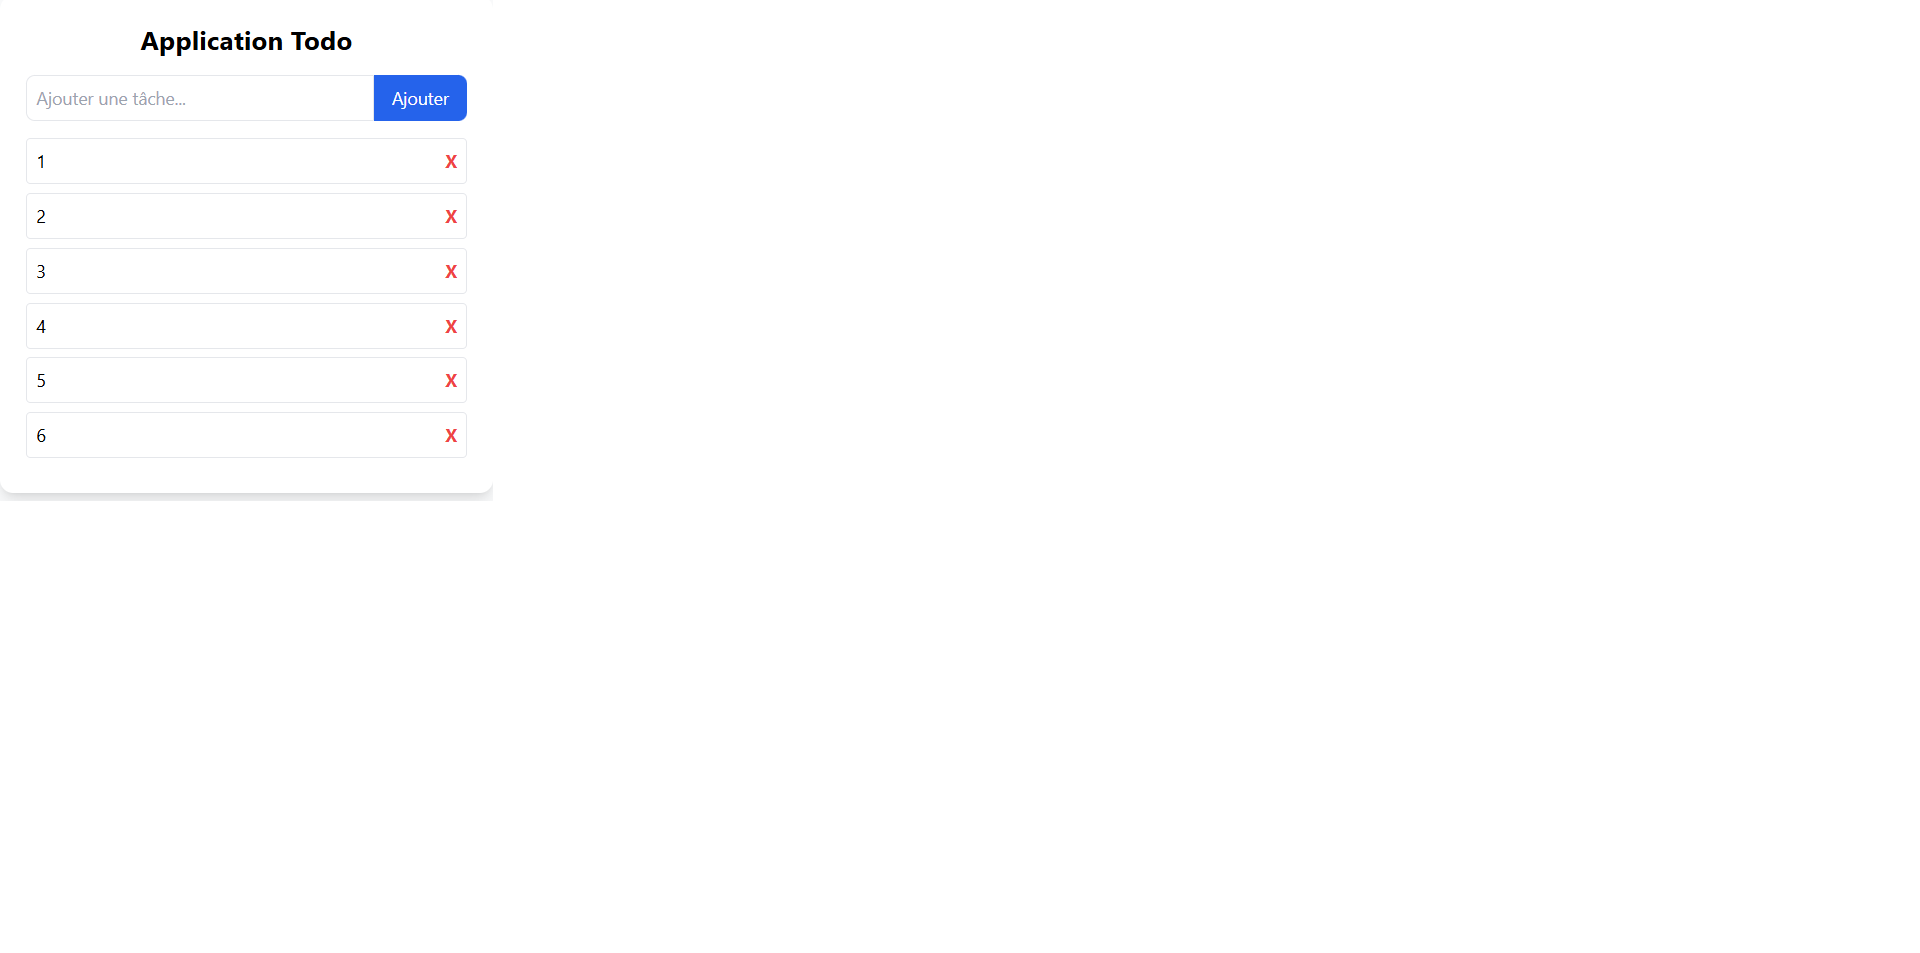
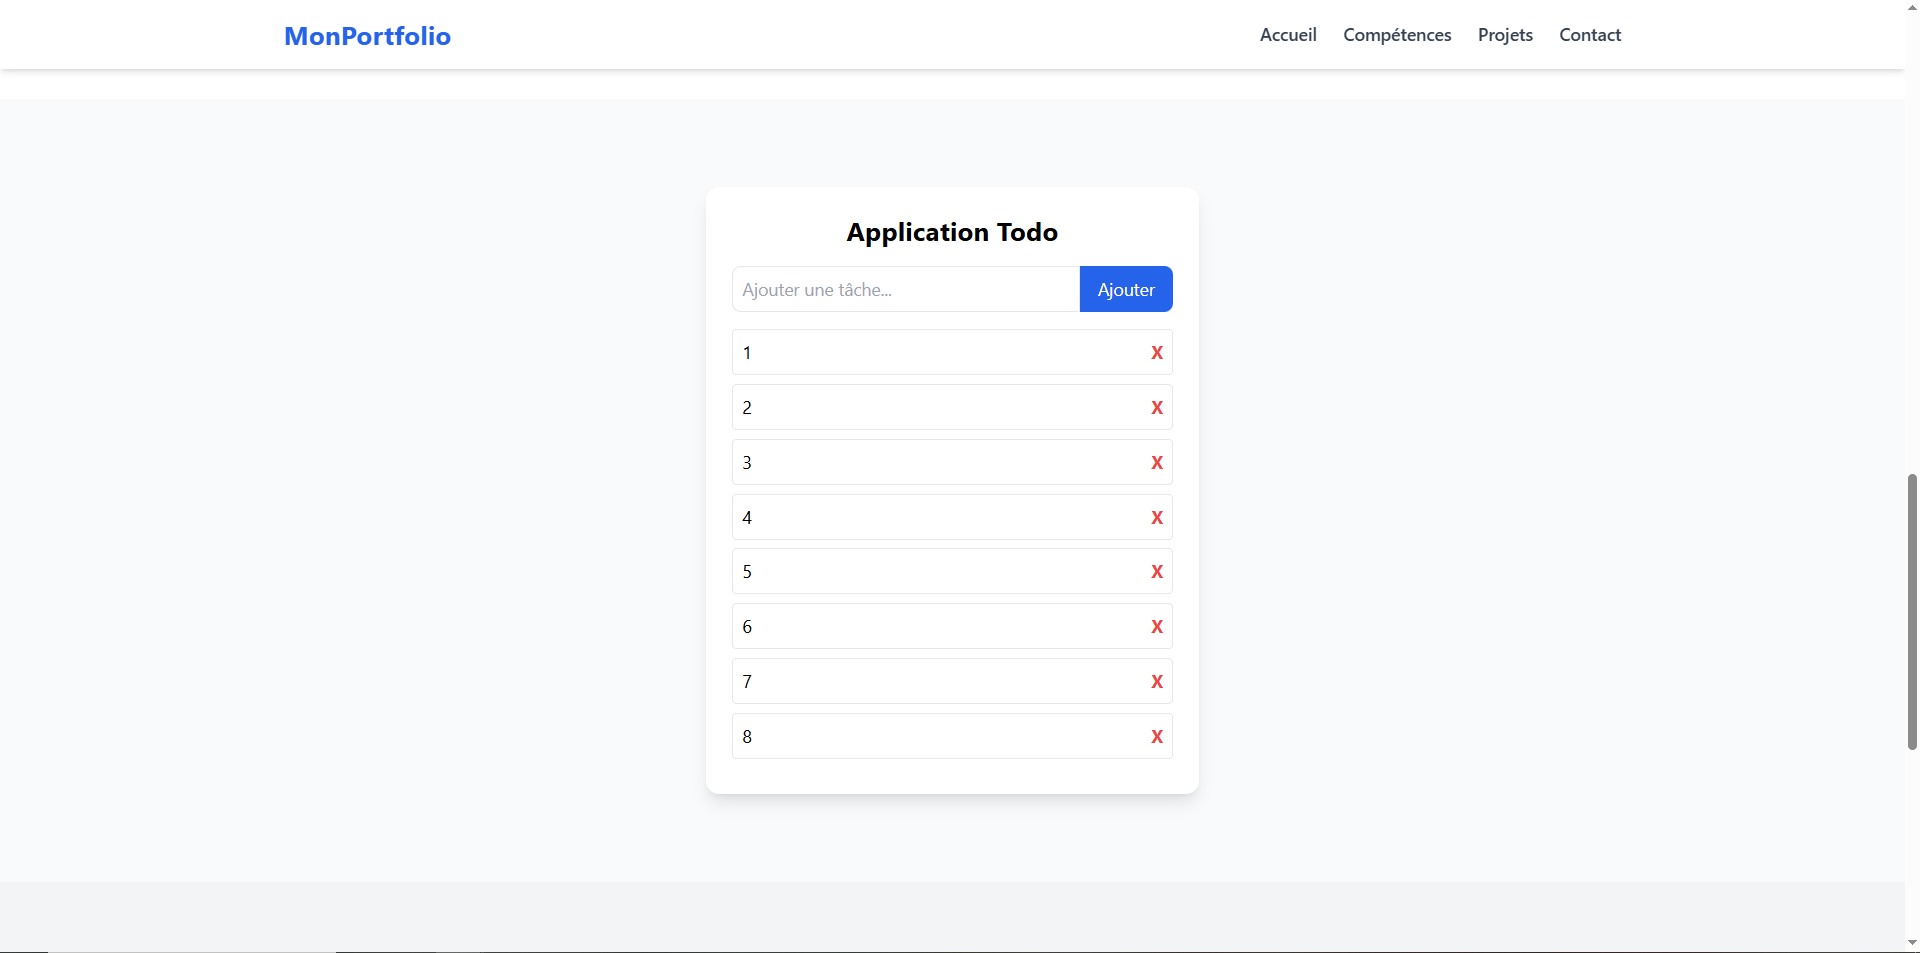
TodoPage and rework

diff --git a/src/App.js b/src/App.js
@@ -1,50 +1,45 @@
 import React from "react";
+import { BrowserRouter as Router, Routes, Route } from "react-router-dom";
 import Header from "./components/Header";
-import Hero from "./components/Hero";
-import Skills from "./components/Skills";
-import Projects from "./components/Projects";
-import Contact from "./components/Contact";
-import Footer from "./components/Footer";
-import Todo from "./components/Todo";
 
+import AppPortfolio from "./AppPortfolio"; // on va créer ça pour ton portfolio actuel
+import TodoPage from "./components/TodoPage";
 
 function App() {
   return (
-    <div className="font-sans">
-      <Header />
-      <Hero />
-      <Skills />
-      <Projects />
-      <Todo/>
-      <Contact />
-      <Footer />
-    </div>
+    <Router>
+      <Header/>
+      <Routes>
+        <Route path="/" element={<AppPortfolio />} />
+        <Route path="/todo" element={<TodoPage />} />
+      </Routes>
+    </Router>
   );
 }
 
 export default App;
 
 
-// import logo from './logo.svg';
-// import './App.css';
+// import React from "react";
+// import Header from "./components/Header";
+// import Hero from "./components/Hero";
+// import Skills from "./components/Skills";
+// import Projects from "./components/Projects";
+// import Contact from "./components/Contact";
+// import Footer from "./components/Footer";
+// import Todo from "./components/Todo";
+
 
 // function App() {
 //   return (
-//     <div className="App">
-//       <header className="App-header">
-//         <img src={logo} className="App-logo" alt="logo" />
-//         <p>
-//           Edit <code>src/App.js</code> and save to reload.
-//         </p>
-//         <a
-//           className="App-link"
-//           href="https://reactjs.org"
-//           target="_blank"
-//           rel="noopener noreferrer"
-//         >
-//           Learn React
-//         </a>
-//       </header>
+//     <div className="font-sans">
+//       <Header />
+//       <Hero />
+//       <Skills />
+//       <Projects />
+//       <Todo/>
+//       <Contact />
+//       <Footer />
 //     </div>
 //   );
 // }

diff --git a/src/components/Header.js b/src/components/Header.js
@@ -5,28 +5,28 @@ function Header() {
     <header className="bg-white shadow-md sticky top-0 z-50">
       <div className="max-w-7xl mx-auto px-4 sm:px-6 lg:px-8 flex justify-between items-center h-16">
         {/* Logo / Nom */}
-        <div className="text-2xl font-bold text-blue-600">MonPortfolio</div>
+        <a href="/" className="text-2xl font-bold text-blue-600">MonPortfolio</a>
 
         {/* Navigation */}
         <nav>
           <ul className="flex space-x-6 text-gray-700 font-medium">
             <li>
-              <a href="#hero" className="hover:text-blue-600 transition-colors">
+              <a href="/" className="hover:text-blue-600 transition-colors">
                 Accueil
               </a>
             </li>
             <li>
-              <a href="#skills" className="hover:text-blue-600 transition-colors">
+              <a href="/#skills" className="hover:text-blue-600 transition-colors">
                 Compétences
               </a>
             </li>
             <li>
-              <a href="#projects" className="hover:text-blue-600 transition-colors">
+              <a href="/#projects" className="hover:text-blue-600 transition-colors">
                 Projets
               </a>
             </li>
             <li>
-              <a href="#contact" className="hover:text-blue-600 transition-colors">
+              <a href="/#contact" className="hover:text-blue-600 transition-colors">
                 Contact
               </a>
             </li>

diff --git a/src/components/Projects.js b/src/components/Projects.js
@@ -18,8 +18,8 @@ function Projects() {
       description:
         "Une application web simple en React pour gérer une liste de tâches.",
       image: screen2,
-      github: "https://github.com/ton-github/todo-app",
-      demo: "#",
+      github: "https://github.com/shiro76/Portfolio/blob/main/src/components/Todo.js",
+      demo: "/todo",
     },
     {
       title: "Mini jeu en Python",
@@ -64,8 +64,8 @@ function Projects() {
                   </a>
                   <a
                     href={project.demo}
-                    target="_blank"
-                    rel="noopener noreferrer"
+                    //target="_blank"
+                    //rel="noopener noreferrer"
                     className="bg-green-600 text-white px-4 py-2 rounded-lg hover:bg-green-500 transition"
                   >
                     Demo

diff --git a/src/components/TodoPage.js b/src/components/TodoPage.js
@@ -53,14 +53,12 @@ export default function Todo() {
                 onClick={() => toggleTask(index)}
                 className={`flex-1 cursor-pointer ${
                   task.done ? "line-through text-gray-400" : ""
-                }`}
-              >
+                }`}>
                 {task.text}
               </span>
               <button
                 onClick={() => deleteTask(index)}
-                className="text-red-500 hover:text-red-700 font-bold"
-              >
+                className="text-red-500 hover:text-red-700 font-bold">
                 X
               </button>
             </li>

diff --git a/src/AppPortfolio.js b/src/AppPortfolio.js
@@ -1,0 +1,20 @@
+import React from "react";
+// import Header from "./Header";
+import Hero from "./components/Hero";
+import Skills from "./components/Skills";
+import Projects from "./components/Projects";
+import Contact from "./components/Contact";
+import Footer from "./components/Footer";
+
+export default function AppPortfolio() {
+  return (
+    <div className="font-sans">
+      {/* <Header /> */}
+      <Hero />
+      <Skills />
+      <Projects />
+      <Contact />
+      <Footer />
+    </div>
+  );
+}

diff --git a/src/index.css b/src/index.css
@@ -2,6 +2,9 @@
 @tailwind components;
 @tailwind utilities;
 
+html {
+  scroll-behavior: smooth;
+}
 
 body {
   margin: 0;
